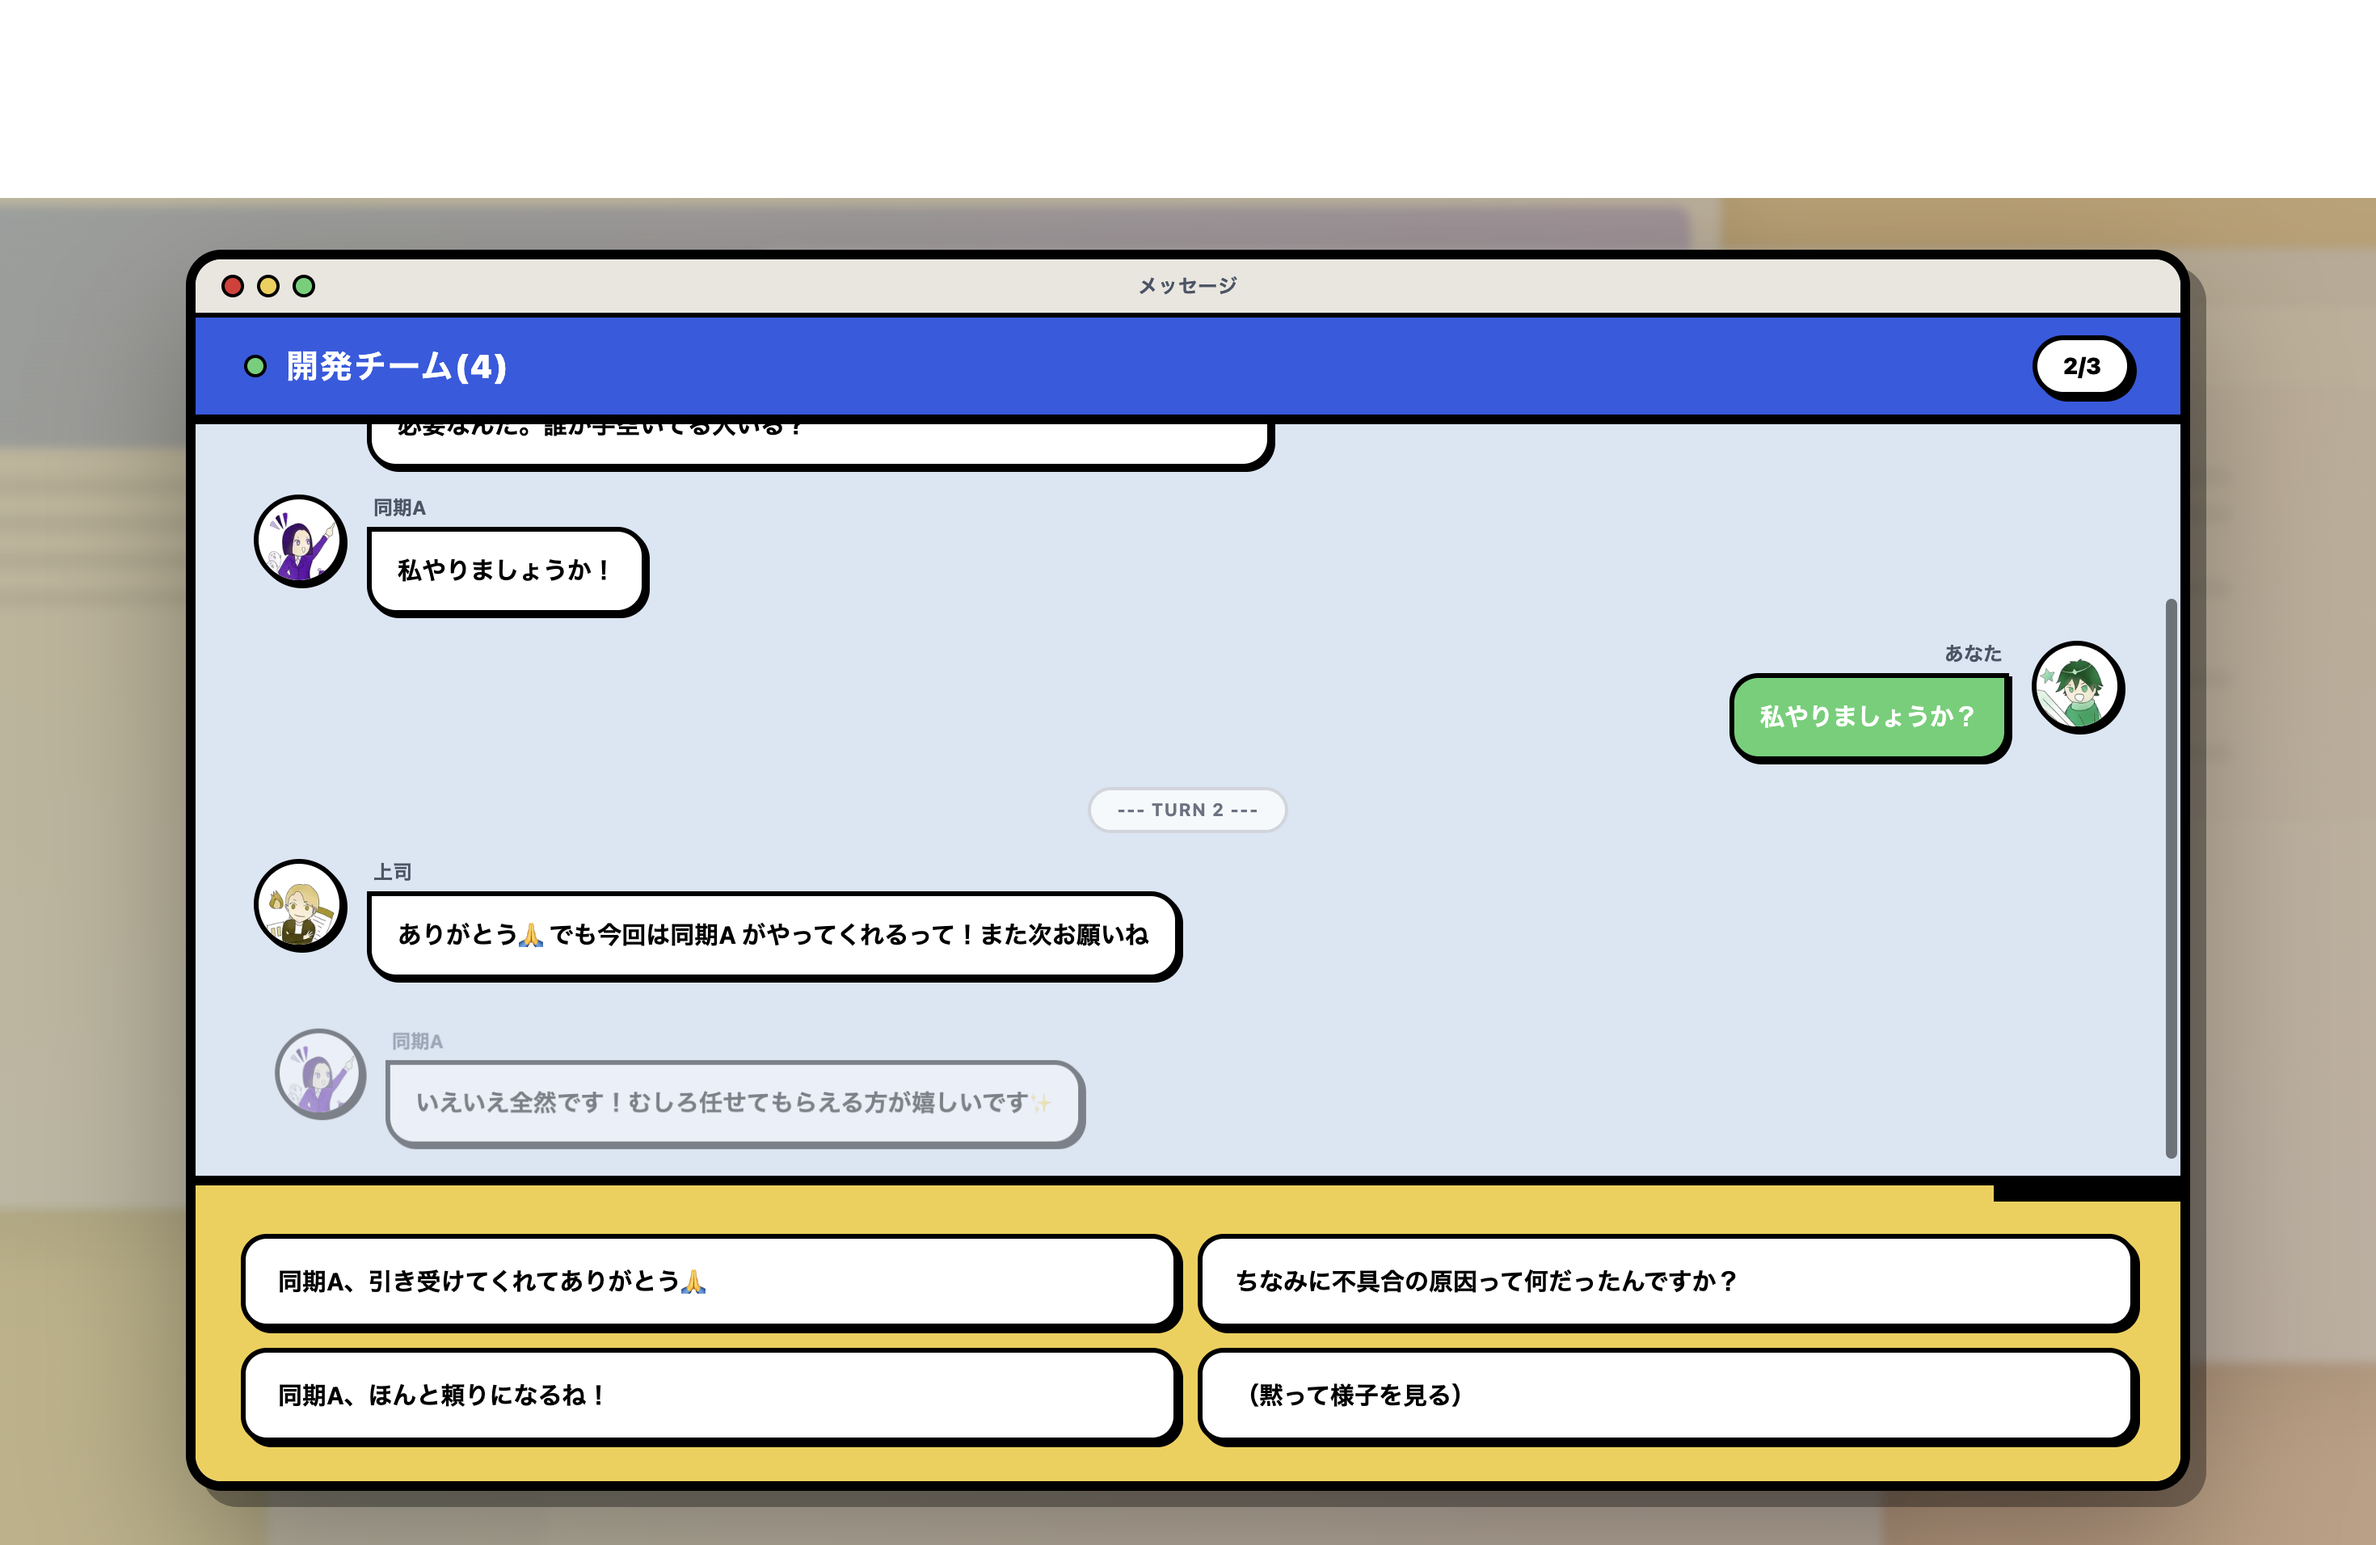
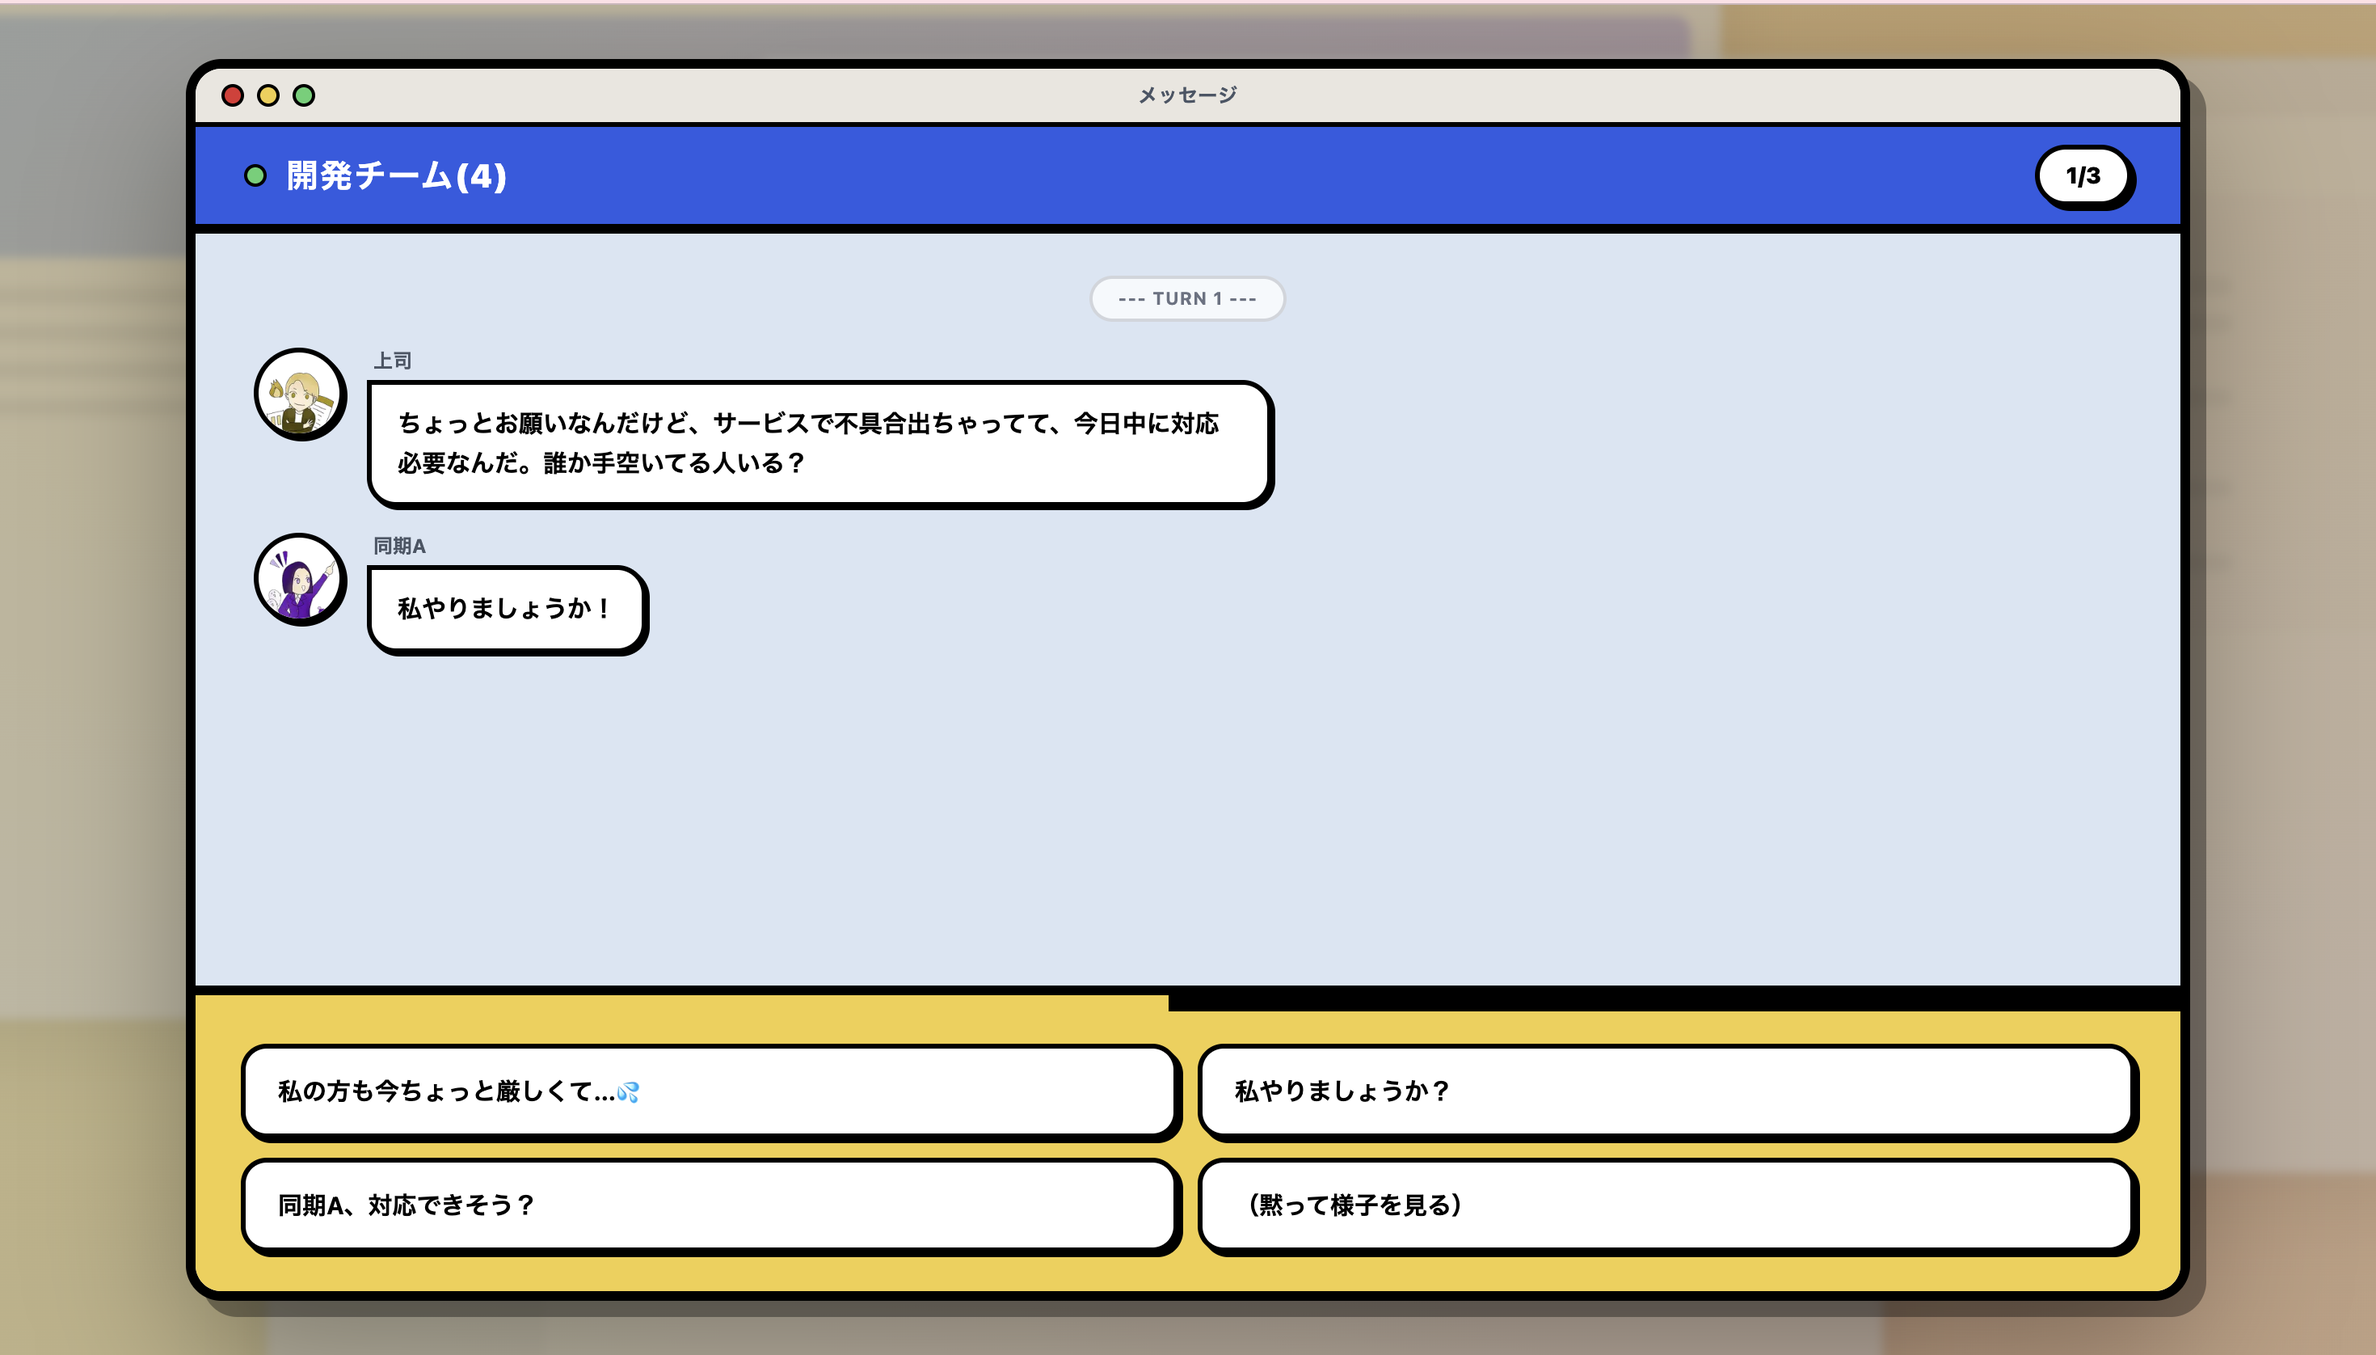
style: 結果画面の視認性を改善しゲーム説明画像を差し替え
- 一言タイトルの背景を黄色(#fef08a)→薄グレー(#e5e7eb)に変更し、黄色背景に埋もれる問題を解消
- 最大ギャップの実測ラベルを濃いめ赤(#e11d48)+細1pxフチにし、潰れて読みにくかった赤文字の視認性を改善（共有カードは従来のまま分離）
- スライダーの自己申告↔実測の差(±N)を、差が小さい時も常に表示（旧 gap>=5 ガードを撤去、±0も明示）
- 逆方向ギャップの文言を短縮し狭い幅でも1行に収まるよう調整
- 各ゲーム説明画像を差し替え

diff --git a/frontend/src/app/globals.css b/frontend/src/app/globals.css
@@ -110,7 +110,10 @@
 .type-main-title-sticker {
   position: relative;
   z-index: 2;
-  background: #fef08a;
+  /* 結果画面の背景（黄色）と被って目立たないため無彩色グレー地に変更。
+     白だと黄背景に馴染んで弱く、青系だと赤いタイトル文字と色がぶつかるため、
+     赤を喧嘩させずに引き立てつつ黄色からしっかり分離するグレーを採用。 */
+  background: #e5e7eb;
   border: 5px solid #000;
   border-radius: 18px;
   padding: 8px 24px 16px;
@@ -266,8 +269,21 @@ body.share-qr-modal-open .type-main-title-sticker {
   margin: 0 2px;
 }
 
-/* 実測ラベル：黒フチ付きで強調（タイトルと同じポップ調） */
-.gap-callout-body .gap-actual,
+/* 実測ラベル（結果画面）：黒フチ付きで強調。
+   太い2pxフチ＋明るい赤(#f87171)だと小サイズで文字が潰れて読みにくかったため、
+   濃いめのローズ赤(#e11d48)＋細い1pxフチに変更し視認性を確保。 */
+.gap-callout-body .gap-actual {
+  color: #e11d48;
+  font-size: 16px;
+  margin: 0 2px;
+  text-shadow:
+    -1px -1px 0 #000,
+    1px -1px 0 #000,
+    -1px 1px 0 #000,
+    1px 1px 0 #000;
+}
+
+/* 実測ラベル（共有カード）：従来の太フチ・明るい赤のまま維持 */
 .share-gap-body .gap-actual {
   color: #f87171;
   font-size: 16px;

diff --git a/frontend/src/features/result/components/BipolarSlider.tsx b/frontend/src/features/result/components/BipolarSlider.tsx
@@ -128,11 +128,11 @@ export default function BipolarSlider({
                 ▼
               </div>
               <div className="self-guide-line" style={{ left: `${selfX}%` }} />
-              {gap >= 5 && (
-                <span className="gap-diff" style={{ left: `${gapMidX}%` }}>
-                  {gapLabel}
-                </span>
-              )}
+              {/* 差が小さく（旧 gap>=5 ガード）±が消えていたため常に表示。
+                  ±0 も含めて自己申告と実測の差を必ず明示する。 */}
+              <span className="gap-diff" style={{ left: `${gapMidX}%` }}>
+                {gapLabel}
+              </span>
             </div>
           )}
         </div>

diff --git a/frontend/src/features/result/components/OverviewTab.tsx b/frontend/src/features/result/components/OverviewTab.tsx
@@ -58,9 +58,8 @@ export default function OverviewTab({ data }: OverviewTabProps) {
                 </p>
               ) : (
                 <p className="gap-callout-body">
-                  自分では
                   <span className="gap-self">「{gap.selfLabel}」</span>
-                  のつもり、でも実際は
+                  と思いきや、実は
                   <span className="gap-actual">「{gap.actualLabel}」</span>！
                 </p>
               )}
